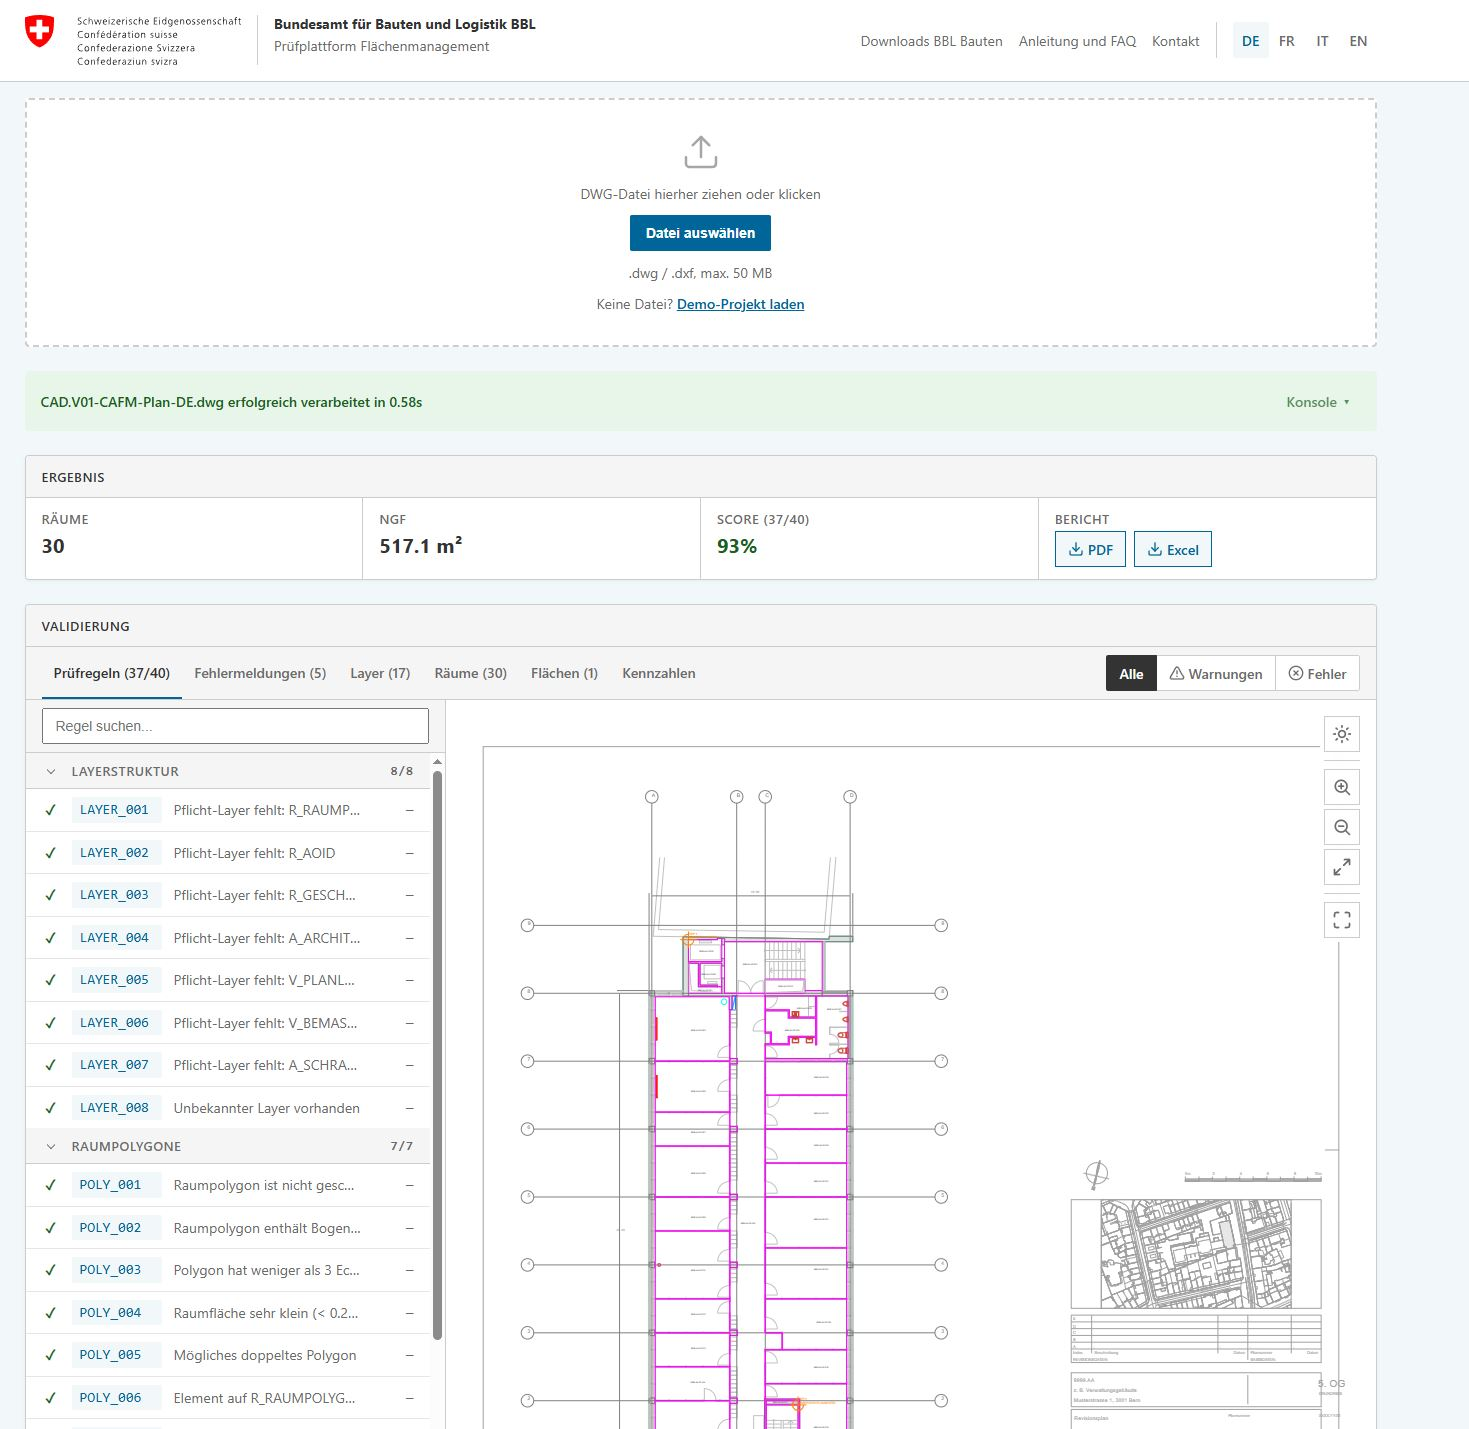
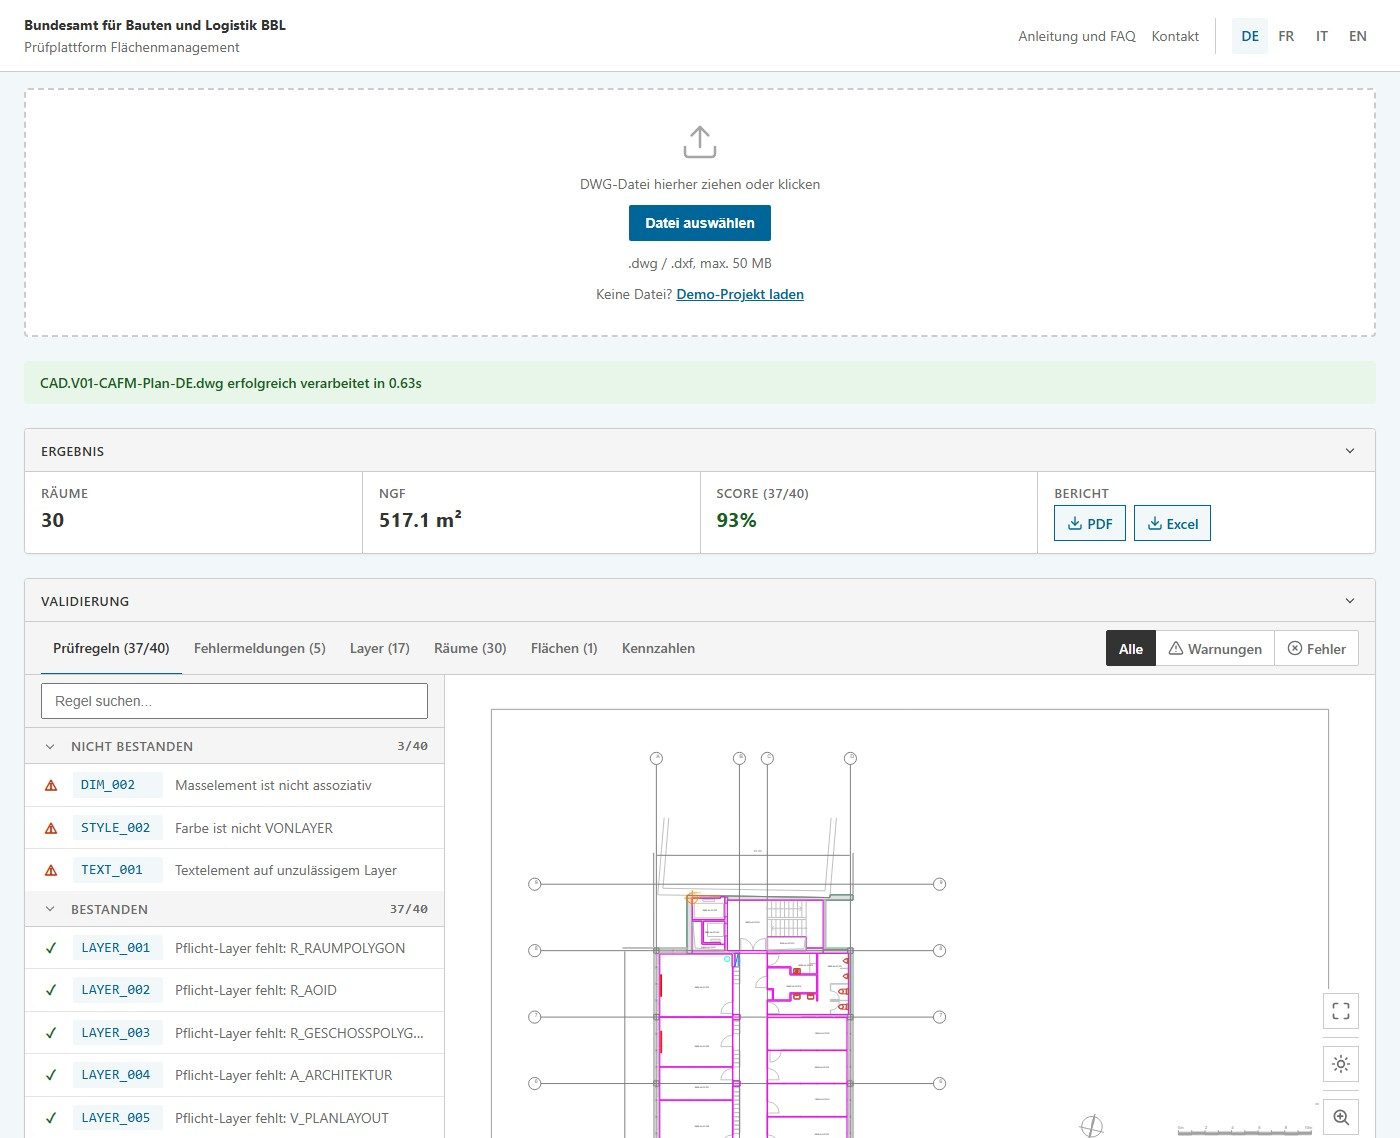
Update

diff --git a/prototype1/css/styles.css b/prototype1/css/styles.css
@@ -323,11 +323,6 @@ body {
     color: inherit;
     transition: opacity var(--duration-normal) var(--ease-out);
 }
-.header__flag { flex-shrink: 0; height: 33px; width: 30px; display: block; margin-right: var(--space-3); }
-.header__name { height: 50px; width: auto; display: block; }
-.header__sep {
-    width: 1px; height: 50px; background: var(--color-border); margin: 0 var(--space-4); flex-shrink: 0;
-}
 .header__titles { display: flex; flex-direction: column; gap: var(--space-1); }
 .header__org { font-size: var(--font-size-sm); font-weight: var(--font-weight-bold); color: var(--color-text-primary); line-height: var(--line-height-tight); }
 .header__app { font-size: var(--font-size-sm); font-weight: var(--font-weight-regular); color: var(--color-text-secondary); line-height: var(--line-height-tight); }
@@ -4722,9 +4717,6 @@ select.form__input--inline {
 
     /* -- Header (mobile) -- */
     .header__content { flex-wrap: wrap; padding: var(--space-3) var(--space-4); }
-    .header__name { display: none; }
-    .header__sep { display: none; }
-    .header__titles { display: none; }
     .lang-selector { border-left: none; padding-left: 0; margin-left: auto; gap: var(--space-1); }
     .lang-selector__item { min-width: 44px; min-height: 44px; }
     .header__menu-btn {

diff --git a/css/styles.css b/css/styles.css
@@ -207,11 +207,6 @@ body {
     display: flex; align-items: flex-start; gap: 0;
     text-decoration: none; min-width: 0; flex-shrink: 1;
 }
-.header__flag { flex-shrink: 0; height: 33px; width: 30px; display: block; margin-right: var(--space-3); }
-.header__name { height: 50px; width: auto; display: block; }
-.header__sep {
-    width: 1px; height: 50px; background: var(--color-border); margin: 0 var(--space-4); flex-shrink: 0;
-}
 .header__titles { display: flex; flex-direction: column; gap: var(--space-1); }
 .header__org { font-size: var(--font-size-sm); font-weight: var(--font-weight-bold); color: var(--color-text-primary); line-height: var(--line-height-tight); }
 .header__app { font-size: var(--font-size-sm); font-weight: var(--font-weight-regular); color: var(--color-text-secondary); line-height: var(--line-height-tight); }
@@ -727,9 +722,6 @@ body {
         flex-wrap: wrap;
         padding: var(--space-3) var(--space-4);
     }
-    .header__name { display: none; }
-    .header__sep { display: none; }
-    .header__titles { display: none; }
     .lang-selector {
         border-left: none;
         padding-left: 0;

diff --git a/prototype1/index.html b/prototype1/index.html
@@ -29,9 +29,6 @@
     <header class="header" role="banner">
         <div class="header__content">
             <a href="#" class="header__brand" id="header-brand-link">
-                <img src="../assets/swiss-logo-flag.svg" alt="" class="header__flag" width="40" height="44">
-                <img src="../assets/swiss-logo-name.svg" alt="Schweizerische Eidgenossenschaft" class="header__name">
-                <div class="header__sep"></div>
                 <div class="header__titles">
                     <span class="header__org" data-i18n="app.orgName">Bundesamt für Bauten und Logistik BBL</span>
                     <span class="header__app" data-i18n="app.title">Prüfplattform Flächenmanagement</span>

diff --git a/index.html b/index.html
@@ -11,9 +11,6 @@
     <header class="header" role="banner">
         <div class="header__content">
             <a href="?" class="header__brand">
-                <img src="assets/swiss-logo-flag.svg" alt="" class="header__flag">
-                <img src="assets/swiss-logo-name.svg" alt="Schweizerische Eidgenossenschaft" data-i18n-alt="app.orgNameFull" class="header__name">
-                <div class="header__sep"></div>
                 <div class="header__titles">
                     <span class="header__org" data-i18n="app.orgName">Bundesamt für Bauten und Logistik BBL</span>
                     <span class="header__app" data-i18n="app.title">Prüfplattform Flächenmanagement</span>

diff --git a/README.md b/README.md
@@ -2,7 +2,7 @@
 
 <p align="center">
   <a href="https://bbl-dres.github.io/plan-check/">
-    <img src="assets/social-preview-3.jpg" width="100%" alt="BBL Plan Checker">
+    <img src="assets/hero-abstract-painterly.jpg" width="100%" alt="Abstract architectural painting with blue and cream blocks, fine floor-plan lines, and a red accent">
   </a>
 </p>
 
